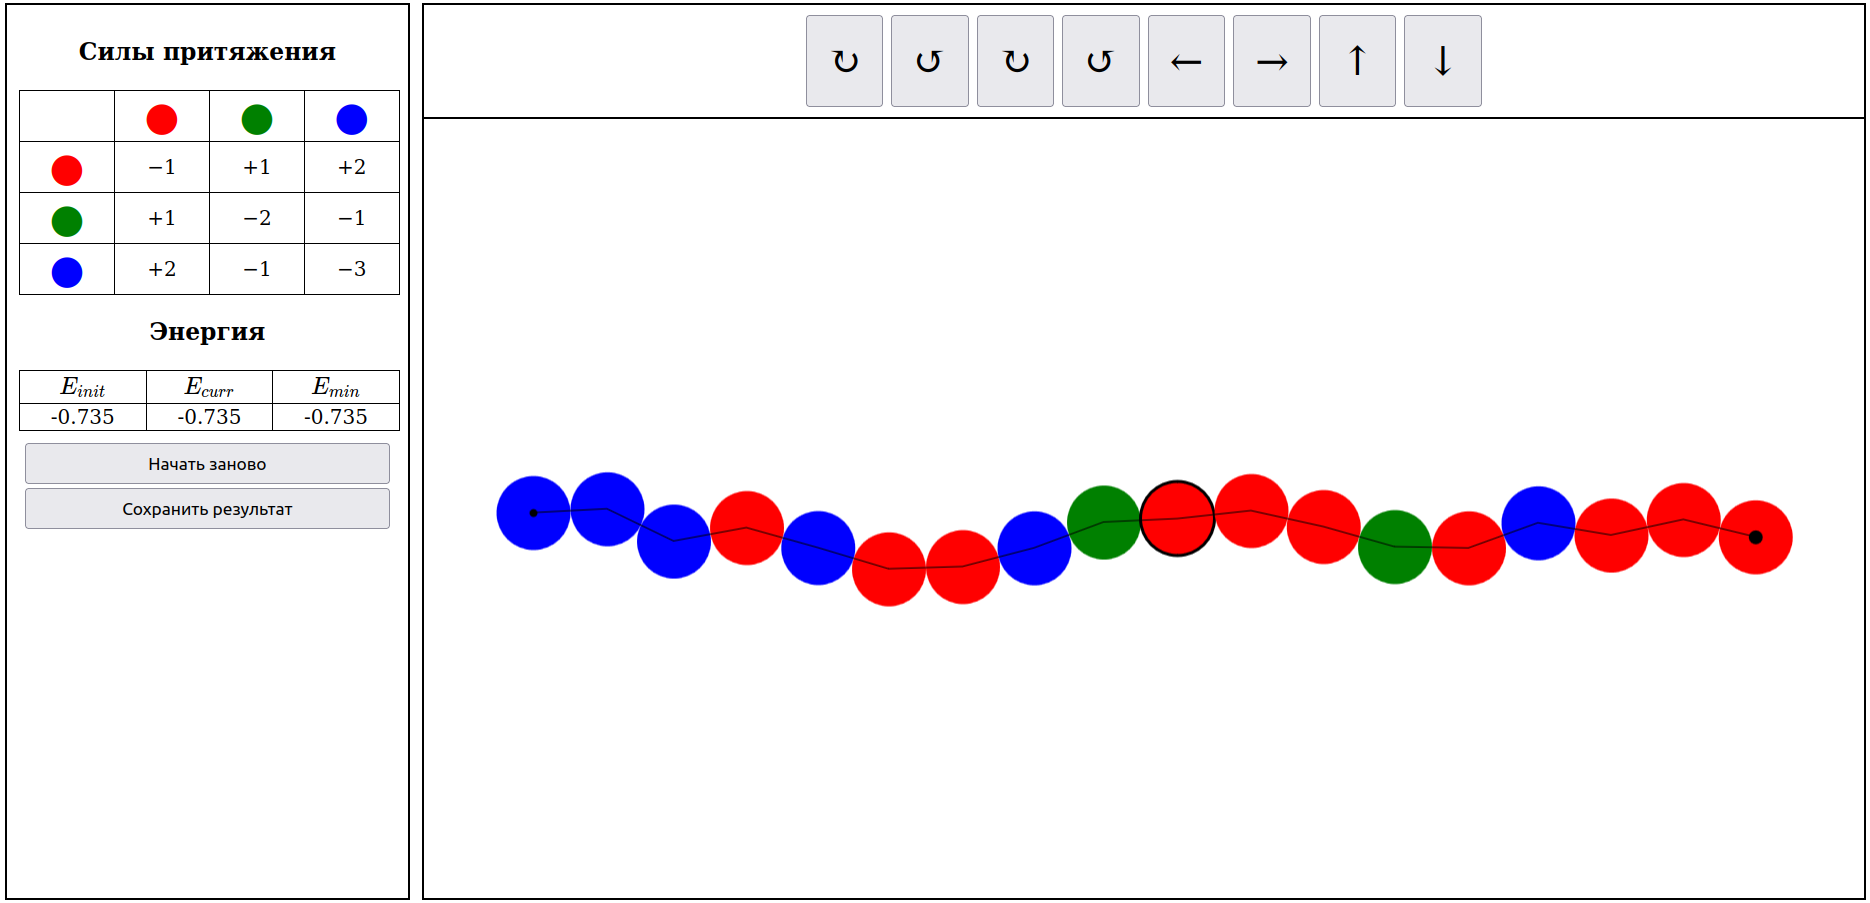
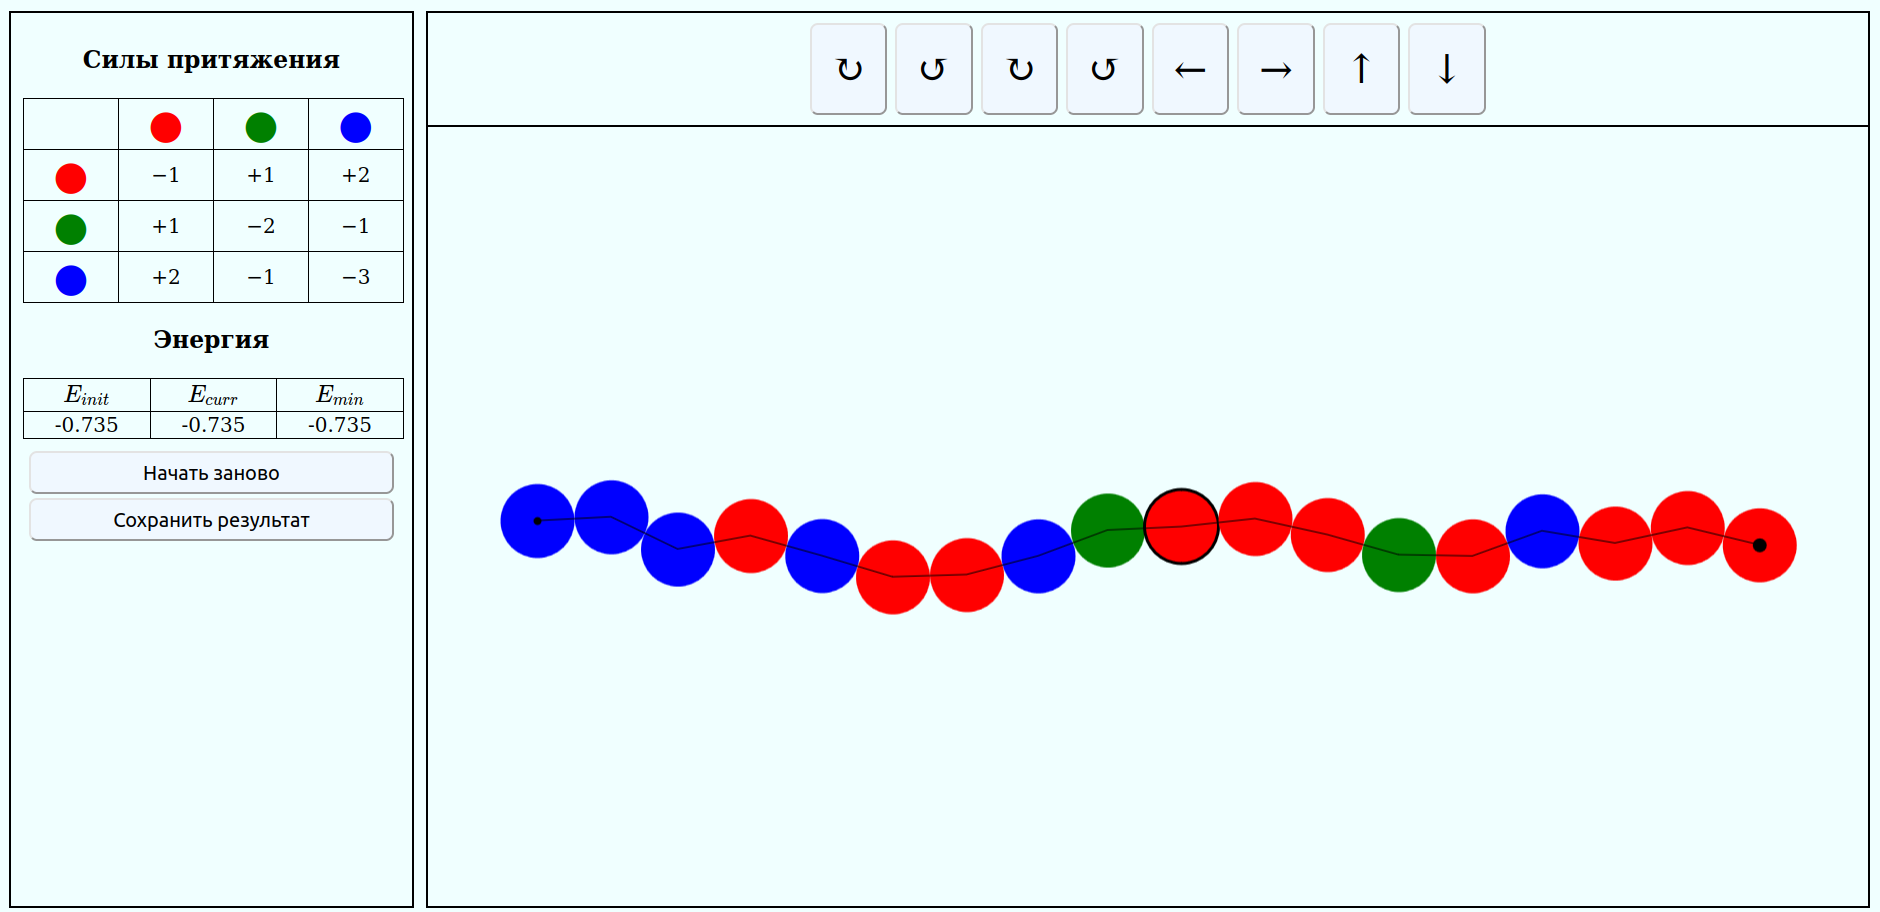
Improve buttons style

Changed region(s): [[0.0, 0.0, 1.0, 1.0], [0.2791, 0.5271, 0.9615, 0.6822]]

diff --git a/src/components/ParamsInput/ParamsInput.js b/src/components/ParamsInput/ParamsInput.js
@@ -82,13 +82,13 @@ export function ParamsInput({
         settings={settings}
       />
       <button
-        className={styles['new-chain-btn']}
+        className={styles['button']}
         onClick={generateNewParticlesChain}
       >
         Сгенерировать новую цепь
       </button>
       <button
-        className={styles['save-config-btn']}
+        className={styles['button']}
         onClick={displayParams}
       >
         Показать параметры в виде JSON

diff --git a/src/components/ParamsInput/ParamsInput.module.css b/src/components/ParamsInput/ParamsInput.module.css
@@ -1,9 +1,11 @@
-.new-chain-btn {
+.button {
   padding: 10px;
   margin: 6px;
+  font-size: medium;
+  border-radius: 8px;
+  background-color: #f0f8ff;
 }
 
-.save-config-btn {
-  padding: 10px;
-  margin: 6px;
+.button:hover {
+  background-color: #f2f4ff;
 }

diff --git a/src/components/Buttons/Buttons.module.css b/src/components/Buttons/Buttons.module.css
@@ -2,5 +2,11 @@
   padding: 8px;
   margin-top: 4px;
   width: 100%;
-  background-color: aliceblue;
+  font-size: medium;
+  border-radius: 8px;
+  background-color: #f0f8ff;
+}
+
+.button:hover {
+  background-color: #f2f4ff;
 }

diff --git a/src/components/Controls/Control.module.css b/src/components/Controls/Control.module.css
@@ -2,5 +2,10 @@
   padding: 20px;
   margin: 4px;
   font-size: xx-large;
-  background-color: aliceblue;
+  background-color: #f0f8ff;
+  border-radius: 8px;
+}
+
+.button:hover {
+  background-color: #f2f4ff;
 }

diff --git a/src/index.js b/src/index.js
@@ -28,7 +28,7 @@ function App() {
 }
 
 // TODO:
-// - Configure Level2 and Level3 settings
+// - Configure Level2 and Level3
 
 const root = ReactDOM.createRoot(document.getElementById('root'));
 root.render(
